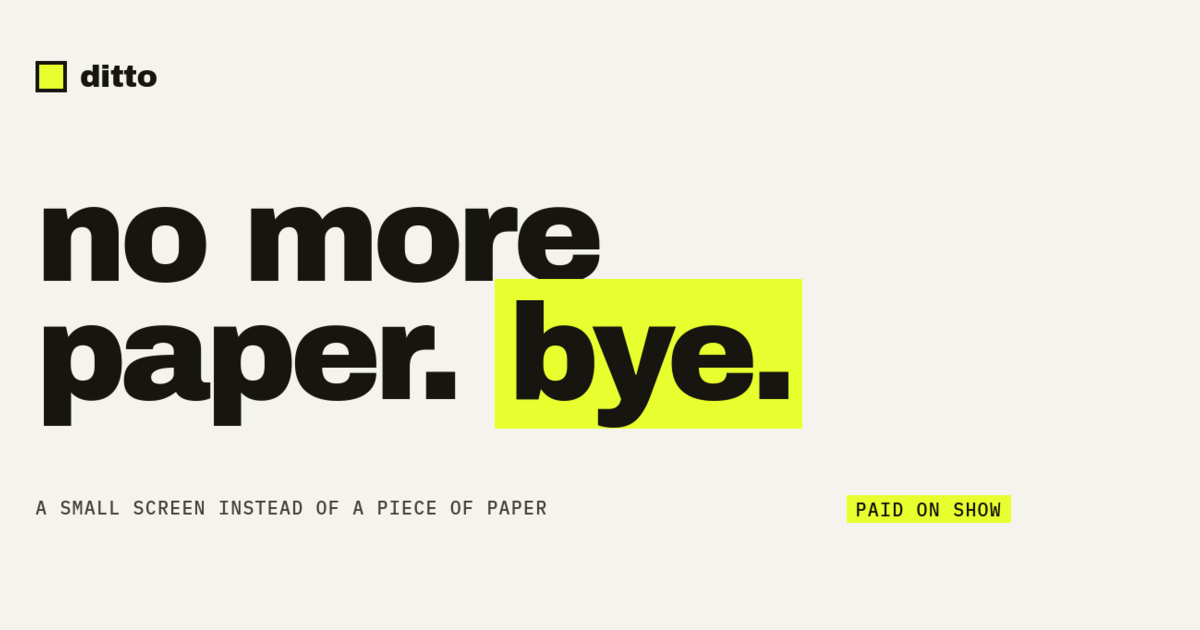
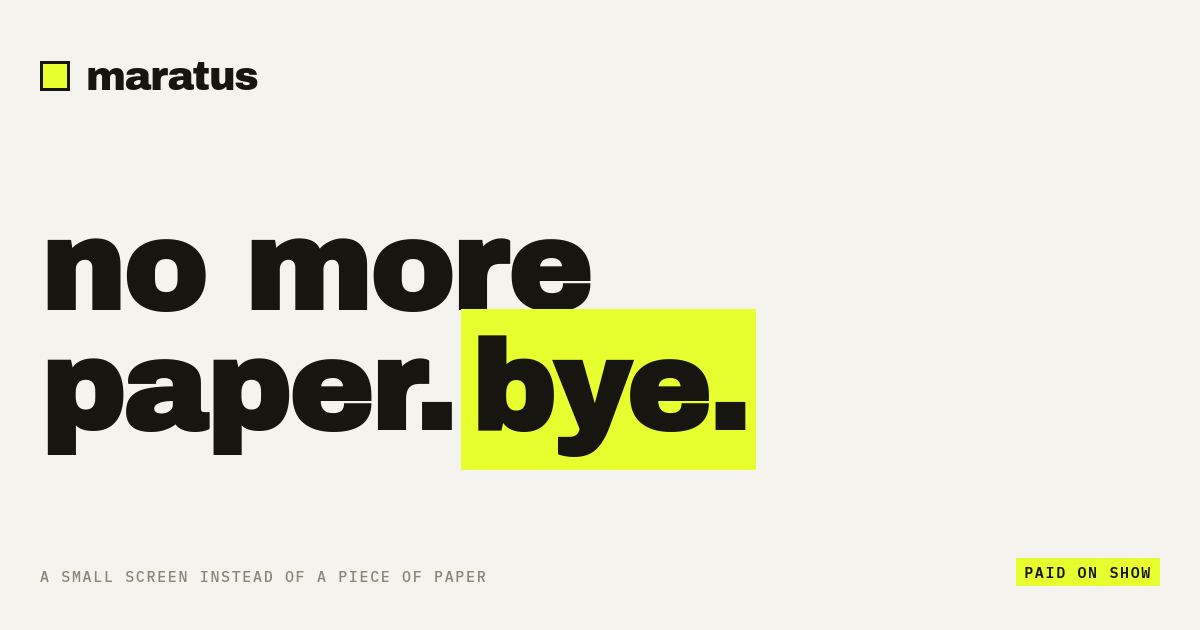
feat: the product is called maratus
Every visible "ditto" on both pages becomes "maratus" — titles, the nav and
footer wordmarks, share metadata, mailto subjects, alt text. The
ditto-admin and ditto-site URLs stay: those are real repo and hosting paths.

The demo button was the brand used as a verb; it now says "show it". The
seven-letter wordmark ran under the email line on a phone, so below 560px
the meta lifts to the top and the mark takes the floor. og.png regenerated.

diff --git a/index.html b/index.html
@@ -3,12 +3,12 @@
 <head>
 <meta charset="utf-8">
 <meta name="viewport" content="width=device-width, initial-scale=1">
-<title>ditto — no more paper. bye.</title>
+<title>maratus — no more paper. bye.</title>
 <meta name="description" content="A small touch screen by the till. Your system sends a link, the box shows a code, the customer scans it. $15 a month per box, 1000 codes a month included.">
 <link rel="icon" type="image/svg+xml" href="assets/favicon.svg">
 <meta property="og:type" content="website">
 <meta property="og:url" content="https://erenmeren.github.io/ditto-site/">
-<meta property="og:title" content="ditto — no more paper. bye.">
+<meta property="og:title" content="maratus — no more paper. bye.">
 <meta property="og:description" content="A small touch screen by the till. Your system sends a link, the box shows a code, the customer scans it. $15 a month per box, 1000 codes a month included.">
 <meta property="og:image" content="https://erenmeren.github.io/ditto-site/assets/og.png">
 <meta name="twitter:card" content="summary_large_image">
@@ -24,14 +24,14 @@
 
 <nav class="nav">
 <div class="wrap">
-<a class="brand" href="#top">ditto</a>
+<a class="brand" href="#top">maratus</a>
 <div class="nav-links">
 <a href="#how">how it works</a>
 <a class="hide-sm" href="docs.html">docs</a>
-<a class="gh hide-sm" href="https://github.com/erenmeren/ditto-admin" aria-label="ditto on GitHub" title="the console, on GitHub">
+<a class="gh hide-sm" href="https://github.com/erenmeren/ditto-admin" aria-label="maratus on GitHub" title="the console, on GitHub">
 <svg viewBox="0 0 16 16" width="18" height="18" fill="currentColor" aria-hidden="true"><path d="M8 0C3.58 0 0 3.58 0 8c0 3.54 2.29 6.53 5.47 7.59.4.07.55-.17.55-.38 0-.19-.01-.82-.01-1.49-2.01.37-2.53-.49-2.69-.94-.09-.23-.48-.94-.82-1.13-.28-.15-.68-.52-.01-.53.63-.01 1.08.58 1.23.82.72 1.21 1.87.87 2.33.66.07-.52.28-.87.51-1.07-1.78-.2-3.64-.89-3.64-3.95 0-.87.31-1.59.82-2.15-.08-.2-.36-1.02.08-2.12 0 0 .67-.21 2.2.82.64-.18 1.32-.27 2-.27s1.36.09 2 .27c1.53-1.04 2.2-.82 2.2-.82.44 1.1.16 1.92.08 2.12.51.56.82 1.27.82 2.15 0 3.07-1.87 3.75-3.65 3.95.29.25.54.73.54 1.48 0 1.07-.01 1.93-.01 2.2 0 .21.15.46.55.38A8.01 8.01 0 0 0 16 8c0-4.42-3.58-8-8-8Z"/></svg>
 </a>
-<a class="cta" href="mailto:erenaltan@gmail.com?subject=ditto%20pilot&body=Hi%20%E2%80%94%20I%20run%20___%20(shop%2Fchain%2C%20city)%2C%20with%20___%20tills.%0AI%27d%20like%20to%20put%20a%20box%20on%20a%20counter.">join the pilot</a>
+<a class="cta" href="mailto:erenaltan@gmail.com?subject=maratus%20pilot&body=Hi%20%E2%80%94%20I%20run%20___%20(shop%2Fchain%2C%20city)%2C%20with%20___%20tills.%0AI%27d%20like%20to%20put%20a%20box%20on%20a%20counter.">join the pilot</a>
 </div>
 </div>
 </nav>
@@ -60,7 +60,7 @@
 
 <section class="meet">
 <div class="meet-shelf">
-<div class="device-inflow rv-drop" style="background-image:url(assets/device-angled.jpg)" role="img" aria-label="The ditto box at a slight angle — a palm-sized square touch screen idling with a shop's logo and the time"></div>
+<div class="device-inflow rv-drop" style="background-image:url(assets/device-angled.jpg)" role="img" aria-label="The maratus box at a slight angle — a palm-sized square touch screen idling with a shop's logo and the time"></div>
 <p class="mono mono-up" style="margin-top:16px">the box itself — idling with your brand between customers</p>
 </div>
 <div class="meet-copy">
@@ -68,7 +68,7 @@
 <p class="body">Palm-sized, touch screen, wi-fi in and nothing else. Between customers it shows your brand and the time; the moment your till has something to hand over, it shows the code instead.</p>
 </div>
 <div class="meet-stamp">
-<div class="stamp-mono">1 code shown<br>= 1 of your 1000<br>= 1 <span class="hl-s">ditto</span></div>
+<div class="stamp-mono">1 code shown<br>= 1 of your 1000<br>= 1 <span class="hl-s">maratus</span></div>
 <p class="mono mono-up">the code clears itself,<br>back to your screen</p>
 </div>
 </section>
@@ -138,7 +138,7 @@
 </div>
 </div>
 <div class="demo-actions">
-<button class="keycap"><span>ditto</span><span aria-hidden="true">→</span></button>
+<button class="keycap"><span>show it</span><span aria-hidden="true">→</span></button>
 <div class="demo-meta">
 <span class="k">kind</span><span class="v" data-kind>—</span>
 <span class="k">counted</span><span class="v">on show</span>
@@ -212,7 +212,7 @@
 <div class="wrap">
 <div class="eyebrow">fair questions</div>
 <div class="faq-list">
-<div class="faq-row"><h3 class="h3">Do I still have to print receipts?</h3><p>Where the law requires a printed fiscal receipt, you keep printing it — ditto sits beside your printer, not instead of it. It replaces everything else you hand over: e-receipt copies, tickets, warranties, menus, return slips.</p></div>
+<div class="faq-row"><h3 class="h3">Do I still have to print receipts?</h3><p>Where the law requires a printed fiscal receipt, you keep printing it — maratus sits beside your printer, not instead of it. It replaces everything else you hand over: e-receipt copies, tickets, warranties, menus, return slips.</p></div>
 <div class="faq-row"><h3 class="h3">What if the wi-fi is down?</h3><p>Your till gets an immediate "box offline" answer. Nothing shows, nothing queues, nothing is charged.</p></div>
 <div class="faq-row"><h3 class="h3">What if the code never shows?</h3><p>The request expires and nothing counts against your 1000. A late code never appears — nobody sees a stranger's receipt.</p></div>
 <div class="faq-row"><h3 class="h3">Shown but never scanned — do I still pay?</h3><p>Yes — it counts. The showing is what you're paying for; scanning is free whether zero people scan or fifty.</p></div>
@@ -243,17 +243,17 @@
 <div class="pilot-copy">
 <h2 class="h2 rv">we're putting the first boxes <span class="hl">on real counters.</span></h2>
 <p class="body rv" style="--d:80ms">Ordering isn't open yet — the first counters get set up with us, hands-on, on the same $15 a month everyone else will pay. One email is enough; say what you run and how many tills.</p>
-<p class="founder rv" style="--d:140ms">ditto is built in the open, by one engineer. Write to me directly — I read everything. <a href="mailto:erenaltan@gmail.com">erenaltan@gmail.com</a></p>
+<p class="founder rv" style="--d:140ms">maratus is built in the open, by one engineer. Write to me directly — I read everything. <a href="mailto:erenaltan@gmail.com">erenaltan@gmail.com</a></p>
 </div>
 <div class="pilot-act">
-<a class="keycap on-ink" href="mailto:erenaltan@gmail.com?subject=ditto%20pilot&body=Hi%20%E2%80%94%20I%20run%20___%20(shop%2Fchain%2C%20city)%2C%20with%20___%20tills.%0AI%27d%20like%20to%20put%20a%20box%20on%20a%20counter."><span>join the<br>pilot</span><span aria-hidden="true">→</span></a>
+<a class="keycap on-ink" href="mailto:erenaltan@gmail.com?subject=maratus%20pilot&body=Hi%20%E2%80%94%20I%20run%20___%20(shop%2Fchain%2C%20city)%2C%20with%20___%20tills.%0AI%27d%20like%20to%20put%20a%20box%20on%20a%20counter."><span>join the<br>pilot</span><span aria-hidden="true">→</span></a>
 </div>
 </section>
 
 </main>
 
 <footer class="footer">
-<span class="mark">ditto</span>
+<span class="mark">maratus</span>
 <span class="meta"><a href="mailto:erenaltan@gmail.com">erenaltan@gmail.com</a><br>made for counters</span>
 </footer>
 

diff --git a/docs.html b/docs.html
@@ -3,12 +3,12 @@
 <head>
 <meta charset="utf-8">
 <meta name="viewport" content="width=device-width, initial-scale=1">
-<title>docs — ditto</title>
+<title>docs — maratus</title>
 <meta name="description" content="One endpoint, ten minutes. The trigger API: auth, idempotency, the real request shape, every error code, and how billing settles.">
 <link rel="icon" type="image/svg+xml" href="assets/favicon.svg">
 <meta property="og:type" content="website">
 <meta property="og:url" content="https://erenmeren.github.io/ditto-site/docs.html">
-<meta property="og:title" content="ditto docs — one endpoint. ten minutes.">
+<meta property="og:title" content="maratus docs — one endpoint. ten minutes.">
 <meta property="og:description" content="The trigger API: auth, idempotency, the real request shape, every error code, and how billing settles.">
 <meta property="og:image" content="https://erenmeren.github.io/ditto-site/assets/og.png">
 <meta name="twitter:card" content="summary_large_image">
@@ -22,14 +22,14 @@
 
 <nav class="nav">
 <div class="wrap">
-<a class="brand" href="index.html">ditto</a>
+<a class="brand" href="index.html">maratus</a>
 <div class="nav-links">
 <a href="index.html#how">how it works</a>
 <a href="docs.html" aria-current="page">docs</a>
-<a class="gh" href="https://github.com/erenmeren/ditto-admin" aria-label="ditto on GitHub" title="the console, on GitHub">
+<a class="gh" href="https://github.com/erenmeren/ditto-admin" aria-label="maratus on GitHub" title="the console, on GitHub">
 <svg viewBox="0 0 16 16" width="18" height="18" fill="currentColor" aria-hidden="true"><path d="M8 0C3.58 0 0 3.58 0 8c0 3.54 2.29 6.53 5.47 7.59.4.07.55-.17.55-.38 0-.19-.01-.82-.01-1.49-2.01.37-2.53-.49-2.69-.94-.09-.23-.48-.94-.82-1.13-.28-.15-.68-.52-.01-.53.63-.01 1.08.58 1.23.82.72 1.21 1.87.87 2.33.66.07-.52.28-.87.51-1.07-1.78-.2-3.64-.89-3.64-3.95 0-.87.31-1.59.82-2.15-.08-.2-.36-1.02.08-2.12 0 0 .67-.21 2.2.82.64-.18 1.32-.27 2-.27s1.36.09 2 .27c1.53-1.04 2.2-.82 2.2-.82.44 1.1.16 1.92.08 2.12.51.56.82 1.27.82 2.15 0 3.07-1.87 3.75-3.65 3.95.29.25.54.73.54 1.48 0 1.07-.01 1.93-.01 2.2 0 .21.15.46.55.38A8.01 8.01 0 0 0 16 8c0-4.42-3.58-8-8-8Z"/></svg>
 </a>
-<a class="cta" href="mailto:erenaltan@gmail.com?subject=ditto%20pilot&body=Hi%20%E2%80%94%20I%20run%20___%20(shop%2Fchain%2C%20city)%2C%20with%20___%20tills.%0AI%27d%20like%20to%20put%20a%20box%20on%20a%20counter.">join the pilot</a>
+<a class="cta" href="mailto:erenaltan@gmail.com?subject=maratus%20pilot&body=Hi%20%E2%80%94%20I%20run%20___%20(shop%2Fchain%2C%20city)%2C%20with%20___%20tills.%0AI%27d%20like%20to%20put%20a%20box%20on%20a%20counter.">join the pilot</a>
 </div>
 </div>
 </nav>
@@ -111,12 +111,12 @@
 <p class="founder"><a href="https://github.com/erenmeren/ditto-admin">github.com/erenmeren/ditto-admin</a> · <a href="mailto:erenaltan@gmail.com">erenaltan@gmail.com</a></p>
 </div>
 <div class="pilot-act">
-<a class="keycap inverse" href="mailto:erenaltan@gmail.com?subject=ditto%20api&body=Hi%20%E2%80%94%20I%27m%20integrating%20___%20and%20I%20need%20___."><span>ask a question</span><span aria-hidden="true">→</span></a>
+<a class="keycap inverse" href="mailto:erenaltan@gmail.com?subject=maratus%20api&body=Hi%20%E2%80%94%20I%27m%20integrating%20___%20and%20I%20need%20___."><span>ask a question</span><span aria-hidden="true">→</span></a>
 </div>
 </section>
 
 <footer class="footer">
-<span class="mark">ditto</span>
+<span class="mark">maratus</span>
 <span class="meta"><a href="mailto:erenaltan@gmail.com">erenaltan@gmail.com</a><br>made for counters</span>
 </footer>
 

diff --git a/assets/style.css b/assets/style.css
@@ -1,4 +1,4 @@
-/* ditto — the site stylesheet. Shared by index.html and docs.html.
+/* maratus — the site stylesheet. Shared by index.html and docs.html.
 
    The hybrid voice: paper, ink, one acid accent, Archivo Black lowercase
    display, IBM Plex Mono labels. The page is canvas turn 12b ("the
@@ -324,6 +324,14 @@ p.body { font-size: clamp(14px, 1.15vw, 15.5px); line-height: 1.55; color: var(-
 .footer .meta { position: absolute; right: var(--edge); bottom: 16px; text-align: right; font: 500 10.5px/1.7 var(--mono); letter-spacing: .1em; text-transform: uppercase; color: var(--muted); }
 .footer .meta a { color: var(--muted); }
 .footer .meta a:hover { color: var(--ink); }
+/* Seven letters need more room than five. On a phone the wordmark would run
+   under the email line, so the two stop sharing a row: the meta lifts to the
+   top and the mark takes the floor, still cut off by the bottom edge. */
+@media (max-width: 560px) {
+  .footer { height: 100px; }
+  .footer .mark { font-size: 76px; top: 36px; }
+  .footer .meta { top: 12px; bottom: auto; }
+}
 
 /* ======================================================================
    12b — the grid leads. Same components, but every section is a row on

diff --git a/how-it-works.html b/how-it-works.html
@@ -4,7 +4,7 @@
 <meta charset="utf-8">
 <meta http-equiv="refresh" content="0; url=./#how">
 <link rel="canonical" href="./">
-<title>ditto — how it works</title>
+<title>maratus — how it works</title>
 </head>
 <body>
 <p>Moved — <a href="./#how">the whole story now lives on one page</a>.</p>

diff --git a/assets/site.js b/assets/site.js
@@ -1,4 +1,4 @@
-/* ditto — site behaviour. Shared by index.html and docs.html.
+/* maratus — site behaviour. Shared by index.html and docs.html.
 
    Four jobs only. The storyboard clock is deliberately NOT here: it is
    pure CSS, so it keeps running off the main thread and cannot drift.
